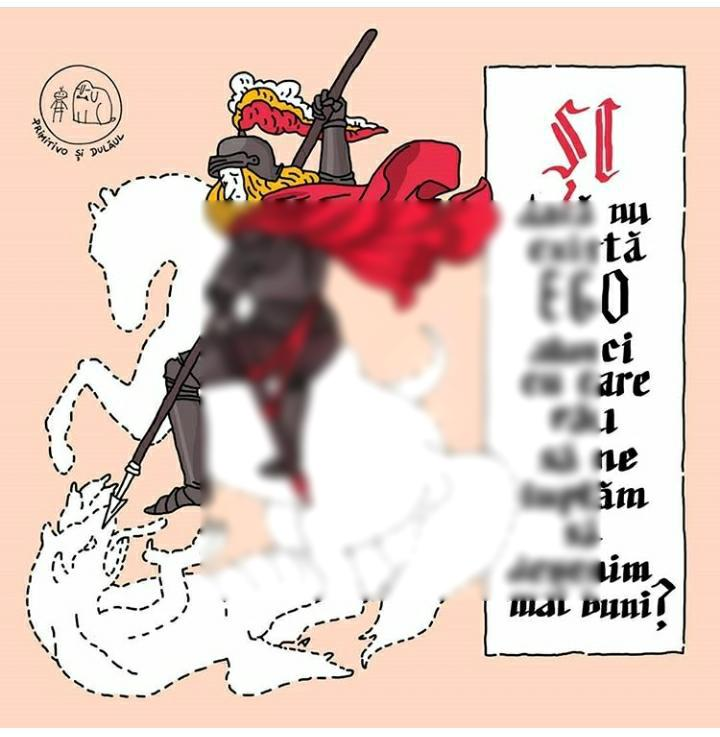
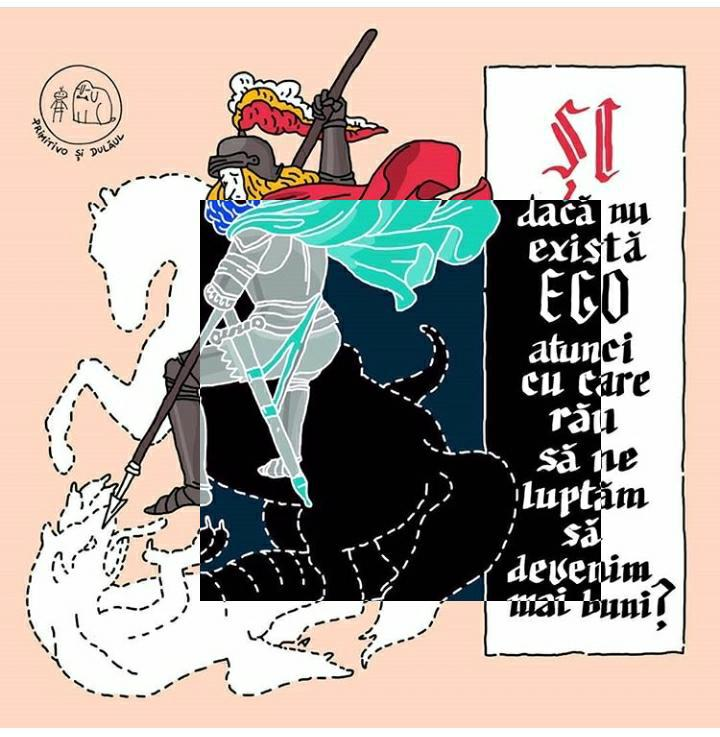
Added target area for color modifications

Changed region(s): [[0.275, 0.2497, 0.8556, 0.8426]]

diff --git a/lib/modify_color.go b/lib/modify_color.go
@@ -15,7 +15,7 @@ import (
     or minimize color, or create a grayscale
     with any channel ratio desired.
 */
-func Modify_colors(img image.Image, mat [4][5]float64) {
+func Modify_colors(img image.Image, area image.Rectangle, mat [4][5]float64) {
     bounds := img.Bounds()
 
     n := 10
@@ -29,19 +29,22 @@ func Modify_colors(img image.Image, mat [4][5]float64) {
             for y := bounds.Min.Y + rank; y <= bounds.Max.Y; y += n {
                 for x := bounds.Min.X; x <= bounds.Max.X; x++ {
 
-                     r, g, b, a := img.At(x, y).RGBA()
+                    if y >= area.Min.Y && y <= area.Max.Y && x >= area.Min.X && x <= area.Max.X {
+                        r, g, b, a := img.At(x, y).RGBA()
 
-                     rf := float64(r)
-                     gf := float64(g)
-                     bf := float64(b)
-                     af := float64(a)
+                        rf := float64(r)
+                        gf := float64(g)
+                        bf := float64(b)
+                        af := float64(a)
 
-                     r_fin := aux.Clamp(0, (256 << 8) - 1, uint32(math.Floor(rf * mat[0][0] + gf * mat[0][1] + bf * mat[0][2] + af * mat[0][3] + mat[0][4] )))
-                     g_fin := aux.Clamp(0, (256 << 8) - 1, uint32(math.Floor(rf * mat[1][0] + gf * mat[1][1] + bf * mat[1][2] + af * mat[1][3] + mat[1][4] )))
-                     b_fin := aux.Clamp(0, (256 << 8) - 1, uint32(math.Floor(rf * mat[2][0] + gf * mat[2][1] + bf * mat[2][2] + af * mat[2][3] + mat[2][4] )))
-                     a_fin := aux.Clamp(0, (256 << 8) - 1, uint32(math.Floor(rf * mat[3][0] + gf * mat[3][1] + bf * mat[3][2] + af * mat[3][3] + mat[3][4] )))
+                        r_fin := aux.Clamp(0, (256 << 8) - 1, uint32(math.Floor(rf * mat[0][0] + gf * mat[0][1] + bf * mat[0][2] + af * mat[0][3] + mat[0][4] )))
+                        g_fin := aux.Clamp(0, (256 << 8) - 1, uint32(math.Floor(rf * mat[1][0] + gf * mat[1][1] + bf * mat[1][2] + af * mat[1][3] + mat[1][4] )))
+                        b_fin := aux.Clamp(0, (256 << 8) - 1, uint32(math.Floor(rf * mat[2][0] + gf * mat[2][1] + bf * mat[2][2] + af * mat[2][3] + mat[2][4] )))
+                        a_fin := aux.Clamp(0, (256 << 8) - 1, uint32(math.Floor(rf * mat[3][0] + gf * mat[3][1] + bf * mat[3][2] + af * mat[3][3] + mat[3][4] )))
 
-                     img.(draw.Image).Set(x, y, color.RGBA{uint8(r_fin >> 8), uint8(g_fin >> 8), uint8(b_fin >> 8), uint8(a_fin >> 8)})
+                        img.(draw.Image).Set(x, y, color.RGBA{uint8(r_fin >> 8), uint8(g_fin >> 8), uint8(b_fin >> 8), uint8(a_fin >> 8)})
+                    }
+
                 }
             }
 

diff --git a/handler.go b/handler.go
@@ -18,8 +18,8 @@ func main() {
     start := time.Now()
 
     card := lib.Copy_image(img)
-    lib.Apply_filter(card, image.Rect(200, 200, 600, 600), lib.Filter{ [][]float64{{1.0/9, 1.0/9, 1.0/9}, {1.0/9, 1.0/9, 1.0/9}, {1.0/9, 1.0/9, 1.0/9}} }, 50)
-    //lib.Modify_colors(card, [4][5]float64{{-1, 0, 0, 0, (256 << 8) - 1}, {0, -1, 0, 0, (256 << 8) - 1}, {0, 0, -1, 0, (256 << 8) - 1}, {0, 0, 0, 1}})
+    //lib.Apply_filter(card, image.Rect(200, 200, 600, 600), lib.Filter{ [][]float64{{1.0/9, 1.0/9, 1.0/9}, {1.0/9, 1.0/9, 1.0/9}, {1.0/9, 1.0/9, 1.0/9}} }, 50)
+    lib.Modify_colors(card, image.Rect(200, 200, 600, 600), [4][5]float64{{-1, 0, 0, 0, (256 << 8) - 1}, {0, -1, 0, 0, (256 << 8) - 1}, {0, 0, -1, 0, (256 << 8) - 1}, {0, 0, 0, 1}})
 
     elapsed := time.Since(start)
 

diff --git a/lib/apply_filter.go b/lib/apply_filter.go
@@ -1,7 +1,6 @@
 package lib
 
 import (
-    "fmt"
     "image"
     "image/color"
     "image/draw"
@@ -16,10 +15,7 @@ type Filter struct {
     Apply the filter f on each pixel of the image img in the assigned area.
 */
 func Apply_filter(img image.Image, area image.Rectangle, f Filter, strength int) {
-
     trg := Copy_image(img)
-
-    fmt.Println(f.Mat)
 
     for i := 0; i < strength; i++ {
         n := 10
